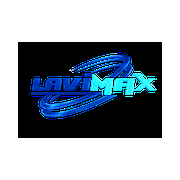
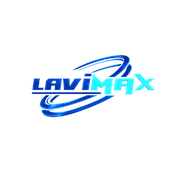
Corrigir ícones - fundo branco sólido sem transparência

diff --git a/sw.js b/sw.js
@@ -1,4 +1,4 @@
-const CACHE_NAME = 'lavimax-orcamentos-v2';
+const CACHE_NAME = 'lavimax-orcamentos-v3';
 const ASSETS = [
   './',
   './index.html',
